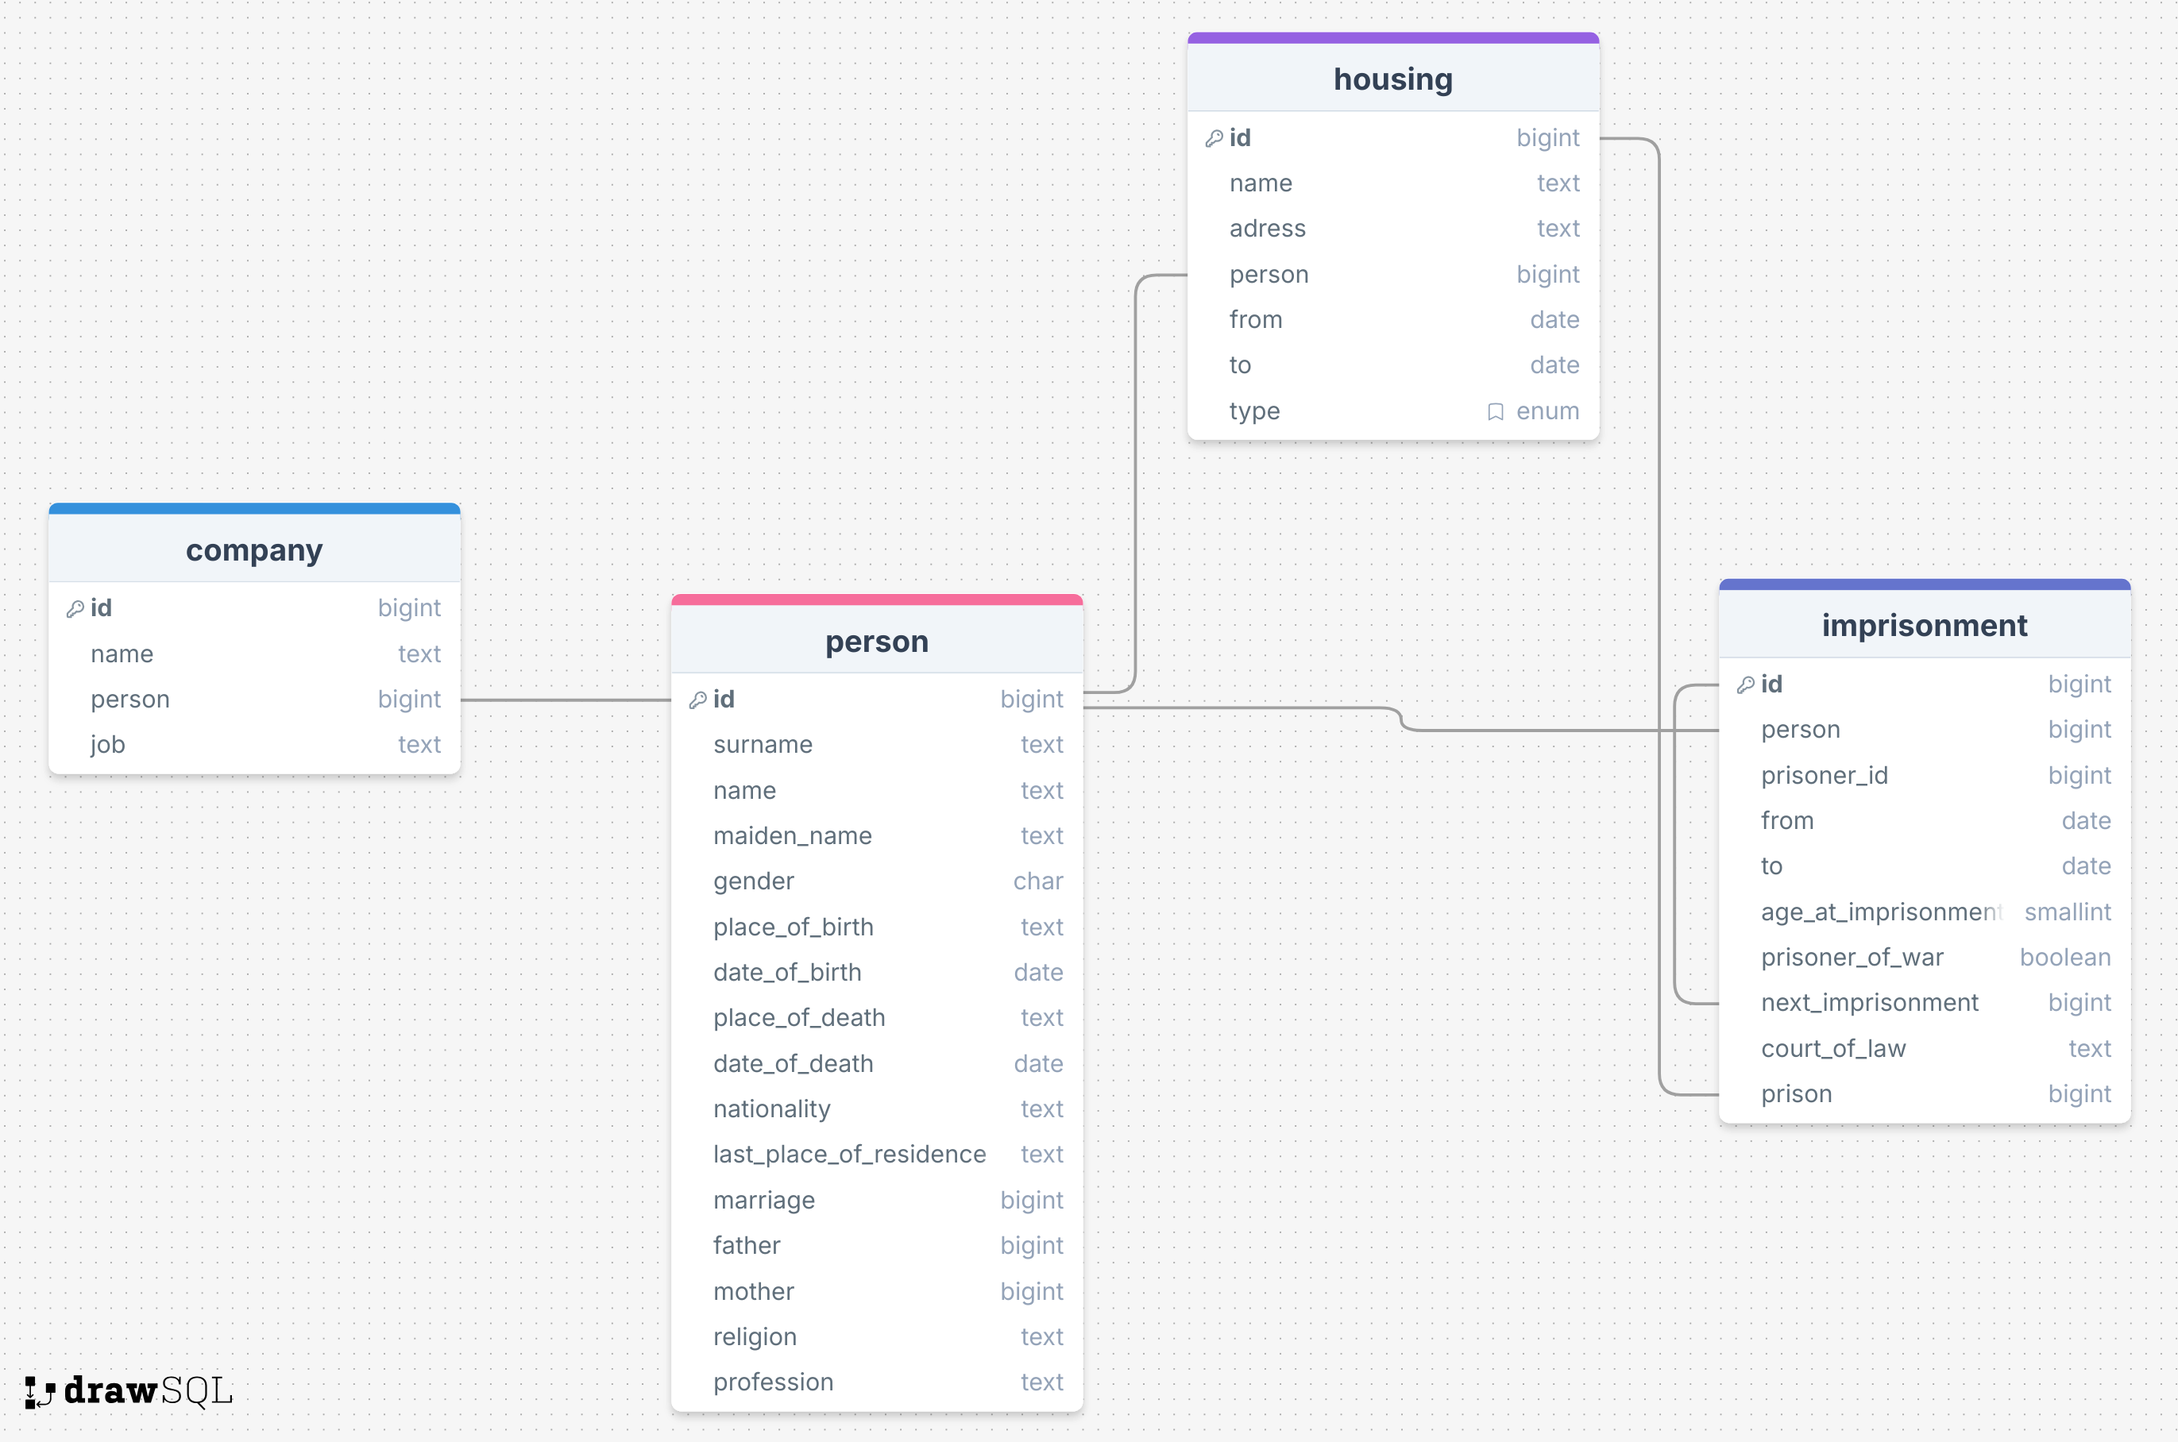
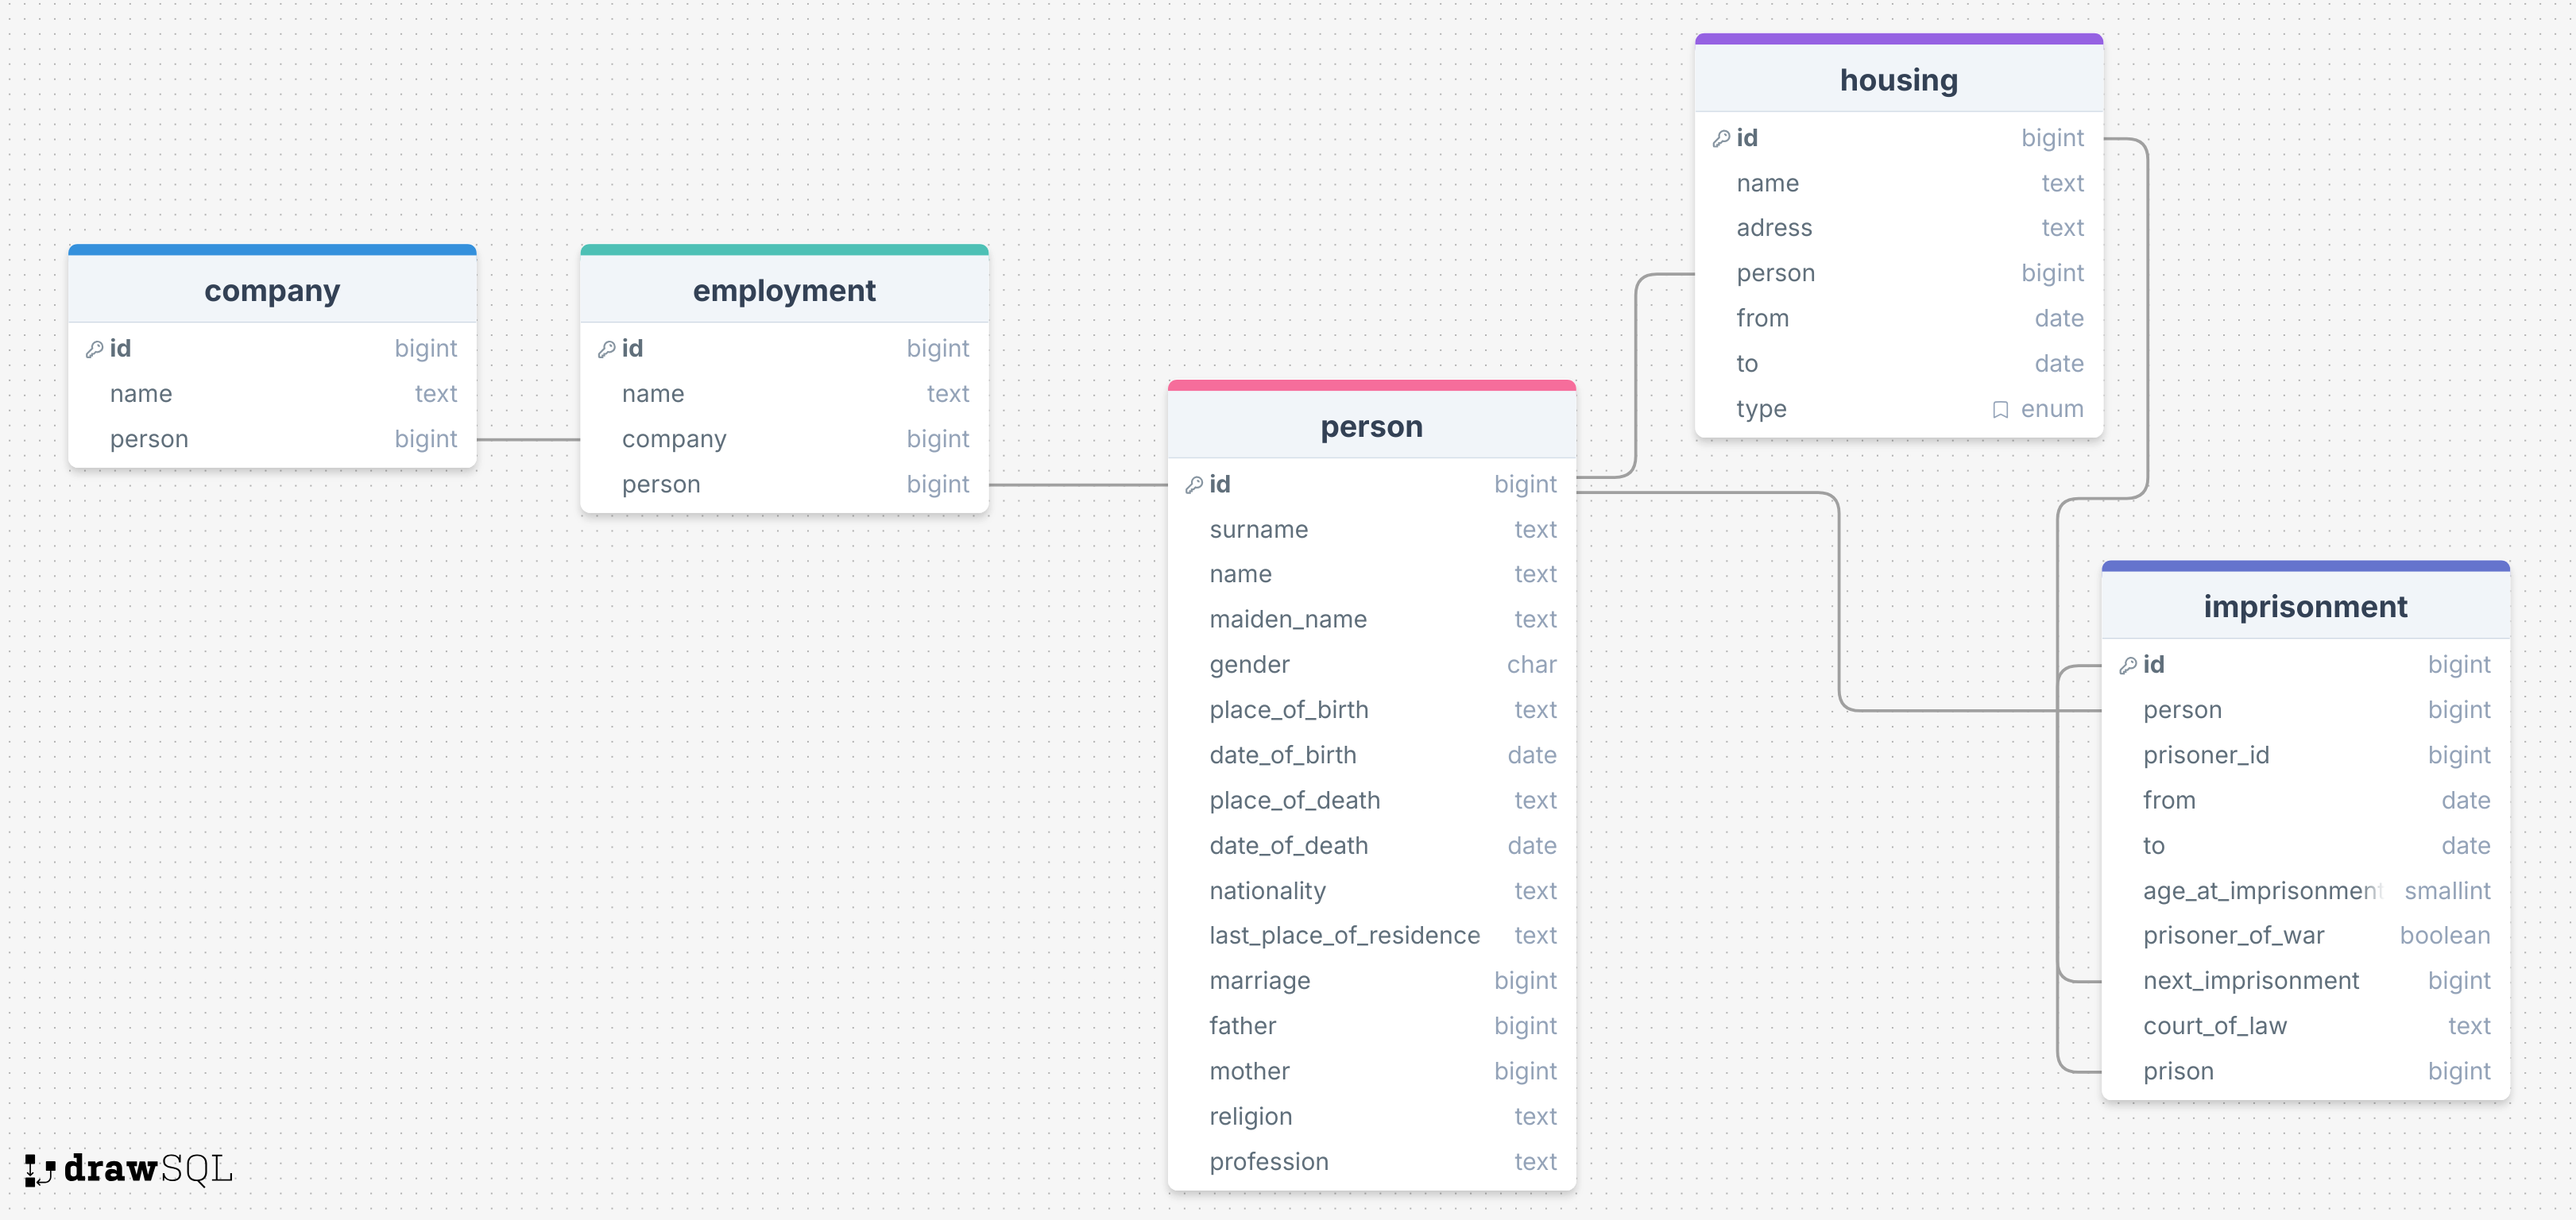
doc: added db doc, schema adjustment

diff --git a/README.md b/README.md
@@ -66,16 +66,27 @@ CREATE TABLE IF NOT EXISTS `Person` (
     ) ENGINE=InnoDB
 ```
 
+### Employment
+```
+CREATE TABLE IF NOT EXISTS `Employment` (
+    `ID` int(11) NOT NULL AUTO_INCREMENT,
+    `Name` varchar(255),
+    `Company` int(11) NOT NULL,
+    `Person` int(11) NOT NULL,
+
+    PRIMARY KEY (`ID`),
+    FOREIGN KEY (`Person`) REFERENCES `Person`(`ID`),
+    FOREIGN KEY (`Company`) REFERENCES `Company`(`ID`)
+    ) Engine=InnoDB
+```
+
 ### Company
 ```
 CREATE TABLE IF NOT EXISTS `Company` (
     `ID` int(11) NOT NULL AUTO_INCREMENT,
     `Name` varchar(255) NOT NULL,
-    `Person` int(11) NOT NULL,
-    `Job` varchar(255) NOT NULL,
 
-    PRIMARY KEY (`ID`),
-    FOREIGN KEY (`Person`) REFERENCES `Person`(`ID`)
+    PRIMARY KEY (`ID`)
     ) Engine=InnoDB
 ```
 
